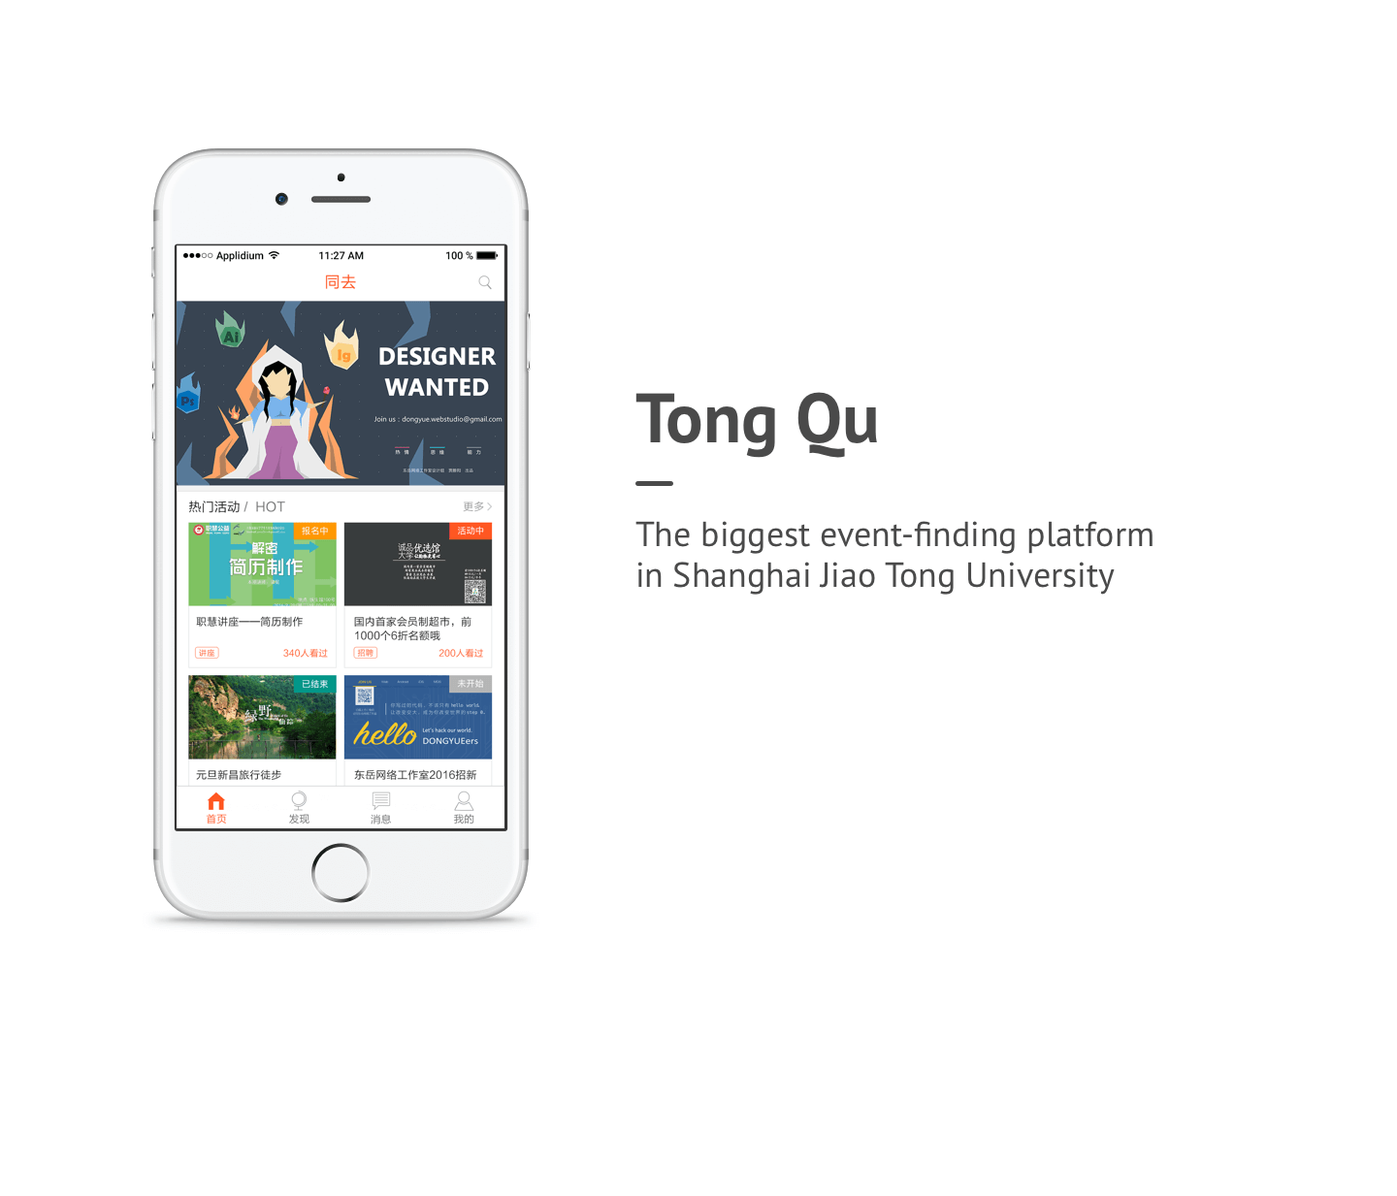
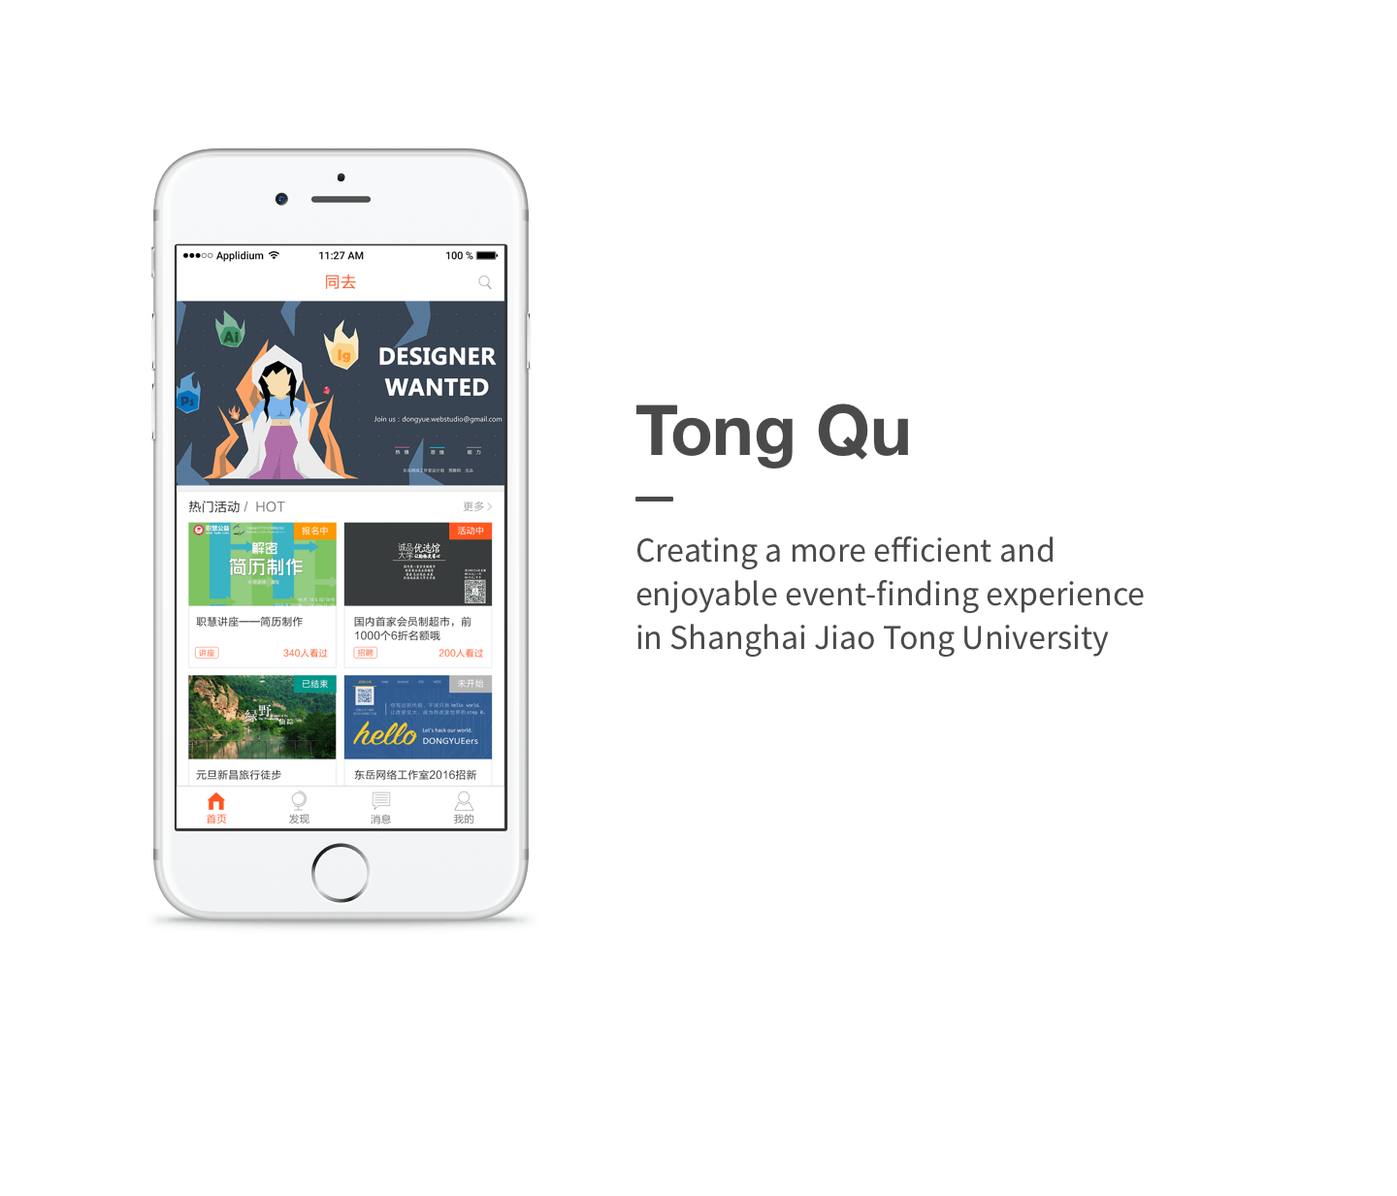
improve project 3

Changed region(s): [[0.4375, 0.3082, 0.8125, 0.5547]]

diff --git a/project3.html b/project3.html
@@ -20,9 +20,9 @@
     <!-- <link rel="stylesheet" href="https://cdnjs.cloudflare.com/ajax/libs/normalize/5.0.0/normalize.min.css"> -->
     <!-- Bootstrap core CSS -->
     <link rel="stylesheet" href="https://maxcdn.bootstrapcdn.com/bootstrap/4.0.0-beta.3/css/bootstrap.min.css" integrity="sha384-Zug+QiDoJOrZ5t4lssLdxGhVrurbmBWopoEl+M6BdEfwnCJZtKxi1KgxUyJq13dy" crossorigin="anonymous">    
-    <!-- <link rel="stylesheet" href="css/responsive2.css"> -->
-    <!-- main CSS -->
+    <!-- Css for configuring the layout of sidebar & main contents-->
     <link rel="stylesheet" href="css/landing.css">
+    <!-- main CSS -->
     <link rel="stylesheet" href="css/styles.css">
     <link rel="stylesheet" href="css/project3.css">
     <link href="https://fonts.googleapis.com/css?family=Cutive+Mono" rel="stylesheet">
@@ -44,12 +44,14 @@
               <li><a href="#About" class="sub">About Tong Qu</a></li>
               <li><a href="#Problem" class="sub">Problem</a></li>
               <li><a href="#Process" class="sub">Process</a></li>
-            <li class="font_padding"><a href="#Research">Formative Research</a></li>
-              <li><a href="#Plan" class="sub">Research Plan</a></li>
-              <li><a href="#Feedback" class="sub">Existing User Feedback</a></li>
+            <li class="font_padding"><a href="#Discover">Discover</a></li>
+              <li><a href="#Research_overview" class="sub">Overview of Research</a></li>
+              <li><a href="#Research_detail" class="sub">Details of Research</a></li>
+<!--               <li><a href="#Feedback" class="sub">Existing User Feedback</a></li>
               <li><a href="#Analytics" class="sub">App Analytics</a></li>
               <li><a href="#Interviews" class="sub">Semi-structured Interviews</a></li>
-              <li><a href="#Competitive" class="sub">Competitive Analysis</a></li>
+              <li><a href="#Competitive" class="sub">Competitive Analysis</a></li> -->
+            <li class="font_padding"><a href="#Define">Define</a></li>
               <li><a href="#Findings" class="sub">Synthesis of Findings</a></li>
               <li><a href="#Personas" class="sub">Personas</a></li>
               <li><a href="#Requirements" class="sub">User Requirements</a></li>
@@ -88,135 +90,111 @@
                               <img style = "width:100%" src="img/project3/achievement.png">
 
                               <div class = "divide_40"></div>
-
-                              <h3 class="overview_subtitle" id="Problem">Problem</h3>
-                              <p class="project-desc">Tong Qu's iOS app hasn’t been updated for more than one year since previous iOS developers graduated. A lot of bugs came out and students complained about its malfunction and abandoned using it.<br></p>
-                               
-                              <p class="project-desc"><span style="font-weight: 600">
-                                Therefore, our goal was to develop a new iOS version and improve the overall user experience.</span></p>
-                              <div class = "divide_40"></div>
-                              <h3 class="overview_subtitle " id="Process">Process</h3>
-                              <img style = "width:100%" src="img/project3/process.png">
+                              <div class = "bg_grey">
+                                <h3 class="overview_subtitle" id="Problem">Problem</h3>
+                                <p class="project-desc">Tong Qu's iOS app hasn’t been updated for more than one year since previous iOS developers graduated. A lot of bugs came out and students complained about its malfunction and abandoned using it.<br></p>
+                                 
+                                <p class="project-desc"><span style="font-weight: 600">
+                                  Our goal was to redesign Tong Qu to provide a more efficient and enjoyable event-finding experience in Shanghai Jiao Tong University.</span></p>
+                              </div> 
                               <div class="divide_40"></div>
-                              <h3 class="overview_subtitle">My Role</h3>
                           </div>
-
-                          <div class="col-lg-4 col-md-4 col-sm-12 col-xs-12">      
-                              <p class="project-desc">Research <br>
-                              Data collection, prepared semi-structured interview and conducted competitive analysis. Came up with the personas. Feedback session for prototype.</p> 
-                          </div>
-                          <div class="col-lg-4 col-md-4 col-sm-12 col-xs-12">      
+                          <div class="col-lg-6 col-md-6 col-sm-12 col-xs-12">
+                              <h3 class="overview_subtitle">My Role</h3>     
                               <p class="project-desc">
-                                Design <br>
-                              Wireframe, mockup, specs<br>
-                              </p> 
+                              1) Analyzed the data from iOS App Store and Apple Analytics, made semi-structured interview plan and conducted competitive analysis.<br>
+                              2) Synthesized the research results and came up with the personas to represent the insights.<br>
+                              3) Created the wireframes and mockups.<br>
+                              4) Led the feedback session and iterated on the design.<br>
+                              5) Prepared the specs and collaborated with iOS developer to implement the design.<br>
+                              6) Assisted PM promote the app update by designing promotion page and banner on Tong Qu's website.</p> 
                           </div>
-                          <div class="col-lg-4 col-md-4 col-sm-12 col-xs-12">      
-                              <p class="project-desc">
-                              Others <br>
-                              Upon finishing the design work, I collaborated with iOS developer Ruiyang Wang to actualize the design and launched it to the iOS store. I also assisted product manager Xiaofan Lu carry out the app promotion by designing introduction page for the app on Tong Qu's website.
-                              </p> 
-                          </div>
-                          <div class="col-lg-4 col-md-4 col-sm-12 col-xs-12">
+                          <div class="col-lg-6 col-md-6 col-sm-12 col-xs-12">      
                               <h3 class="overview_subtitle">Duration</h3>
                               <p class="project-desc">November 2016 - April 2017</p>
-                          </div>
-                          <div class="col-lg-4 col-md-4 col-sm-12 col-xs-12">
+
                               <h3 class="overview_subtitle">Project Team</h3>
                               <p class="project-desc">Huaiwei Sun | Xiaofan Lu | Ruiyang Wang</p>
-                          </div>
-                          <div class="col-lg-4 col-md-4 col-sm-12 col-xs-12">
+
                               <h3 class="overview_subtitle">Tools</h3>
                               <p class="project-desc">Photoshop | Sketch | inVision</p>                       
+                          </div>
+                          <div class="col-lg-12 col-md-12 col-sm-12 col-xs-12">
+                              <div class = "divide_40"></div>
+                              <div class="bg_grey">
+                                <h3 class="overview_subtitle " id="Process">Process</h3>
+                                <img style = "width:100%" src="img/project3/process.png">
+                              </div>
                           </div>
                       </div>
                       <div class="divide_80"></div>
                   </div>
 
-                  <div id="Research">
-                      <h2 class="page-header"><span style="color:#ff5722">02. </span>FORMATIVE RESEARCH</h2>
+                  <div id="Discover">
+                      <h2 class="page-header"><span style="color:#ff5722">02. </span>Discover</h2>
                       <hr>
                       <div class="row">
                         <div class="col-lg-12 col-md-12 col-sm-12 col-xs-12">
                           <div class="divide_20"></div>
-                          <h3 class="overview_subtitle" id="Plan">Research Plan</h3>
-                          <p class = "project-desc">
-                               <span style="font-weight: 600">Research goals:</span> <br>
-                               1. Find out existing pain points that users had with Tong Qu's iOS app.<br>
-                               2. Discovered other user needs from different user groups. <br>
+                          <h3 class="overview_subtitle" id="Findings">Research Overview</h3>
+                          <p id="Research_overview" class = "project-desc">         
+                               In order to capture users' current pain points and other unmet needs, we combined qualitative and quantitative research methods to collect both broad and in-depth data to better understand the users.
                           </p>
-<!--                           <p class="collapsible-button">
-                            <button class="btn black-button" type="button" data-toggle="collapse" data-target="#ideation-process" aria-expanded="false" aria-controls="collapseExample">See Detailed Ideation Process</button>
+                          <img style = "width:100%" src="img/project3/research_methods.png">
+                          <p id="Research_detail" class="collapsible-button">
+                            <button class="btn black-button collapse-btn" type="button" data-toggle="collapse" data-target="#ideation-process" aria-expanded="false" aria-controls="collapseExample">See Research Process</button>
                           </p>
+                          <!--  hidden research contents start here -->
                           <div class="collapse" id="ideation-process">
-                            <p>
-                              We followed a roundtable “yes and” collaborative ideation process, in which we added on each other’s ideas to push them further for more details. We also voiced potential difficulties for the ideas on the list so that we can either further develop them and produce possible solutions, or eliminate them because of their low feasibility. <br><br>
+                            <h3 class="detail_subtitle" id="Feedback">Collecting Existing User Feedback</h3>
+                            <p class = "project-desc">First, we collected feedback from iOS store. It ranged from 2014 to 2016.</p>
+                            <p class = "project-desc">- According to the feedback, <span style="background-color: rgb(255,230,240)">login and crash bugs are the main pain points.</span> As a result, we set the bug-fixing as our top priority in the later product requirement document.<br></p>
+                            <img src="img/project3/previous_feedback.png">
+                            <div class="divide_20"></div>
 
-                              We then narrowed down our ideas by grouping similar ones into bigger themes. <span class="highlight highlight-walker shown">We also referred back to the main findings in our user research, to make sure that all the themes we identified can address at least one of the main concerns of our users.</span>
-                            </p>
-                          </div> -->
+                            <hr>
 
+                            <div class="divide_40"></div>
+                            <h3 class="detail_subtitle" id="Analytics">App Analytics</h3>
+                            <p class = "project-desc">Then we used the Apple's Analytics tool to look at the usage trends of Tong Qu. The marketing data are complete. But the usage data are limited to the users who are willing to share their data with developers like us.</p>
+                            <p class = "project-desc">- Students mainly used Tong Qu when they are on campus. <span style="background-color: rgb(255,230,240)">When the breaks began, they barely used this app.</span><br>
+                            - <span style="background-color: rgb(255,230,240)">The crashes stayed on a high level</span> which was congruent with users' direct feedback.</p>
+                            <img src="img/project3/crashes.png">
+                            <div class="divide_20"></div>
 
+                            <hr>
 
-                          <p class = "project-desc">
-                               <span style="font-weight: 600">Selection of Methods and Justification:</span> <br>
-                               1.  <span style="font-weight: 600; color: rgb(30,30,30);">Collecting Existing User Feedback</span> - We collected Tong Qu's customer reviews from iOS App store and extracted the pain points and suggestions. This method helped us know the existing pain points and user requirements easily and quickly.<br></p>
-                          <p class = "project-desc">
-                               2. <span style="font-weight: 600; color: rgb(30,30,30)">App Analytics</span> - We checked the historical analytics data of Tong Qu and concluded the trends of how students used Tong Qu. It eanbled us to know the temporal changes in usage which reflected how users really used this product rather than what they talked about their experience.<br>
-                          </p>
-                          <p class = "project-desc">
-                               3. <span style="font-weight: 600; color: rgb(30,30,30)">Semi-structured Interviews</span> - We asked students who have used Tong Qu before to probe how and why they used it and their preferences for the platform(website or app). We took digital notes during each interview. We learnt a lot about users' using habits and expectations.<br>
-                          </p>
-                          <p class = "project-desc">
-                               4. <span style="font-weight: 600; color: rgb(30,30,30)">Competitive Analysis</span> - We studied exsiting products on the market which also played the role of event-publishing-and-finding platform. It taught us about how commercial products did their function design,  information architecture, interaction design and detailed UI design.<br>
-                          </p>
-                          
-                          <div class="divide_20"></div>
-                          <hr>
-                          <div class="divide_40"></div>
-                          <h3 class="overview_subtitle" id="Feedback">Collecting Existing User Feedback</h3>
-                          <p class = "project-desc">First, we collected feedback from iOS store. It ranged from 2014 to 2016.</p>
-                          <p class = "project-desc">- According to the feedback, <span style="background-color: rgb(255,230,240)">login and crash bugs are the main pain points.</span> As a result, we set the bug-fixing as our top priority in the later product requirement document.<br></p>
-                          <img src="img/project3/previous_feedback.png">
-                          <div class="divide_20"></div>
+                            <div class="divide_40"></div>
+                            <h3 class="detail_subtitle" id="Interviews">Semi-structured Interviews</h3>
+                            <p class = "project-desc">After getting the general feedback and usage data, we started to collect in-depth qualitative data including:<br>
+                            - what the users thought of Tong Qu.<br>
+                            - what they expected from Tong Qu's app.<br>
+                            - Whether they preferred app or just the website and why.</p>
 
-                          <hr>
+                            <p class = "project-desc">We conducted 13 semi-structured interviews with students who have used Tong Qu before(most of them are our friends and classmates) in Shanghai Jiao Tong University and took notes of their answers.</p>
+                            <p class = "project-desc"><span style="font-weight: 600">We used SWOT as a framework to categorize and analyze our notes in the spreadsheets.</span></p>
+                            <div class="divide_20"></div>
+                            <img class = "bottom_20" src="img/project3/interview.png">
+                            <div class="divide_20"></div>
 
-                          <div class="divide_40"></div>
-                          <h3 class="overview_subtitle" id="Analytics">App Analytics</h3>
-                          <p class = "project-desc">Then we used the Apple's Analytics tool to look at the usage trends of Tong Qu. The marketing data are complete. But the usage data are limited to the users who are willing to share their data with developers like us.</p>
-                          <p class = "project-desc">- Students mainly used Tong Qu when they are on campus. <span style="background-color: rgb(255,230,240)">When the breaks began, they barely used this app.</span><br>
-                          - <span style="background-color: rgb(255,230,240)">The crashes stayed on a high level</span> which was congruent with users' direct feedback.</p>
-                          <img src="img/project3/crashes.png">
-                          <div class="divide_20"></div>
+                            <hr>
 
-                          <hr>
+                            <div class="divide_40"></div>
+                            <h3 class="detail_subtitle" id="Competitive">Competitive Analysis</h3>
+                            <p class = "project-desc">Meanwhile, we studied two popular apps on the market. We listed their Pros and Cons respectively in terms of the information architecture, function design, interaction design and detailed UI design.</p>
+                            <div class="divide_20"></div>
+                            <img src="img/project3/competitor.png">
+                            <div class="divide_20"></div>
+                          </div>
+                          <!-- hidden research contents end here -->   
+                      </div>
+                  </div>
 
-                          <div class="divide_40"></div>
-                          <h3 class="overview_subtitle" id="Interviews">Semi-structured Interviews</h3>
-                          <p class = "project-desc">After getting the general feedback and usage data, we started to collect in-depth qualitative data including:<br>
-                          - what the users thought of Tong Qu.<br>
-                          - what they expected from Tong Qu's app.<br>
-                          - Whether they preferred app or just the website and why.</p>
-
-                          <p class = "project-desc">We conducted 13 semi-structured interviews with students who have used Tong Qu before(most of them are our friends and classmates) in Shanghai Jiao Tong University and took notes of their answers.</p>
-                          <p class = "project-desc"><span style="font-weight: 600">We used SWOT as a framework to categorize and analyze our notes in the spreadsheets.</span></p>
-                          <div class="divide_20"></div>
-                          <img class = "bottom_20" src="img/project3/interview.png">
-                          <div class="divide_20"></div>
-
-                          <hr>
-
-                          <div class="divide_40"></div>
-                          <h3 class="overview_subtitle" id="Competitive">Competitive Analysis</h3>
-                          <p class = "project-desc">Meanwhile, we studied two popular apps on the market. We listed their Pros and Cons respectively in terms of the information architecture, function design, interaction design and detailed UI design.</p>
-                          <div class="divide_20"></div>
-                          <img src="img/project3/competitor.png">
-                          <div class="divide_20"></div>
-
-                          <hr>
-
-                          <div class="divide_40"></div>
+                  <div id="Define">
+                      <h2 class="page-header"><span style="color:#ff5722">03. </span>Define</h2>
+                      <hr>
+                      <div class="row">
+                        <div class="col-lg-12 col-md-12 col-sm-12 col-xs-12">
                           <h3 class="overview_subtitle" id="Findings">Synthesis of Findings</h3>
                           <p class = "project-desc"><span style="font-weight: 600">We aggregrated all the insights distilled from the research above and categorized them into two groups: existing pain points and new requirements.</span></p>
                         </div>
@@ -253,7 +231,7 @@
 
                   <div id="Design">
                       <div class="divide_80"></div>
-                      <h2 class="page-header"><span style="color:#ff5722">03. </span>Design Iterations</h2>
+                      <h2 class="page-header"><span style="color:#ff5722">04. </span>Design Iterations</h2>
                       <hr>
                       <div class="row">
                         <div class="col-lg-12 col-md-12 col-sm-12 col-xs-12">
@@ -317,7 +295,7 @@
 
                   <div id="Implementation">
                       <div class="divide_80"></div>
-                      <h2 class="page-header"><span style="color:#ff5722">04. </span>IMPLEMENTATION</h2>
+                      <h2 class="page-header"><span style="color:#ff5722">05. </span>IMPLEMENTATION</h2>
                       <hr>
                       <div class="row">
                         <div class="col-lg-12 col-md-12 col-sm-12 col-xs-12">

diff --git a/css/styles.css b/css/styles.css
@@ -270,6 +270,29 @@ ul li {
 /* ------------------------------------------------------------------------------
 project page
 -------------------------------------------------------------------------------*/
+.bg_grey{
+  background-color: #f6f6f6;
+  padding:20px 80px;
+  margin: 0 -80px;
+}
+.collapsible-button{
+	margin: 3vh 0 4vh 0;
+	text-align: center;
+}
+.collapse-btn{
+	border: 1px solid #676767;
+	border-radius: 6px;
+	color: #676767;
+}
+.collapse-btn:hover{
+	background-color: #676767;
+	color: #ffffff;
+}
+.collapse-btn:focus{
+	outline:inherit;
+	box-shadow: inherit;
+}
+
 .name{
   font-size: 1.8vw;
   font-family: 'Cutive Mono', monospace;
@@ -796,6 +819,9 @@ Contact page
         letter-spacing: 0.03em;
         text-align: left;
     }
+    h3.detail_subtitle{
+        font-size: 18px;
+    }
 
     h3.project_subtitle:before{
         vertical-align: -70%;
@@ -817,7 +843,8 @@ Contact page
         margin: 20px auto;
         margin-left: -10px;
     }
-    h3.overview_subtitle:before{
+    
+    .overview_subtitle:before{
         vertical-align: -50%;
     }
     h4.cic-winner{

diff --git a/css/landing.css b/css/landing.css
@@ -350,6 +350,15 @@ h3.overview_subtitle{
     font-family: 'PT Sans',"Roboto", "Helvetica Neue","Helvetica","Arial",sans-serif;
     padding-bottom: 20px;
 }
+h3.detail_subtitle{
+    font-size: 20px;
+    color: #333;
+    font-weight: 600;
+    padding-top: 30px;
+    text-align: left;
+    font-family: 'Open Sans',"Roboto", "Helvetica Neue","Helvetica","Arial",sans-serif;
+    padding-bottom: 20px;
+}
 hr{
   margin-top: 1.5rem;
 }
@@ -561,9 +570,10 @@ p.project-desc a{
 }*/
 
 #fh5co-main {
-  width: 75%;
+  width: 81%;
   float: right;
-  margin-right: 3%;
+/*  padding-left:1%;
+  padding-right: 1%;*/
   -webkit-transition: 0.5s;
   -o-transition: 0.5s;
   transition: 0.5s;
@@ -592,8 +602,9 @@ p.project-desc a{
 
 #fh5co-main .fh5co-narrow-content {
   position: relative;
-  width: 90%;
+  width: 100%;
   margin: 0 auto;
+  padding:0 80px;
 }
 
 #fh5co-main .fh5co-narrow-content a {
